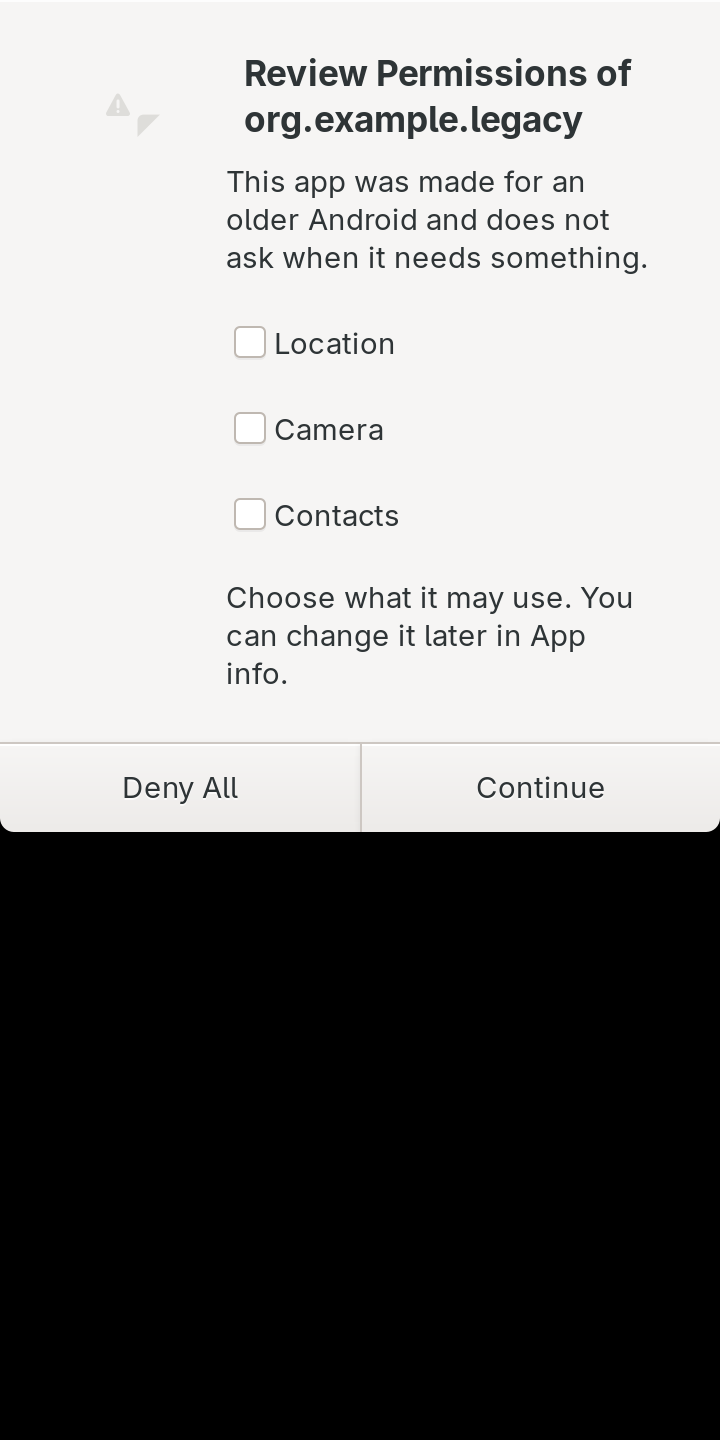
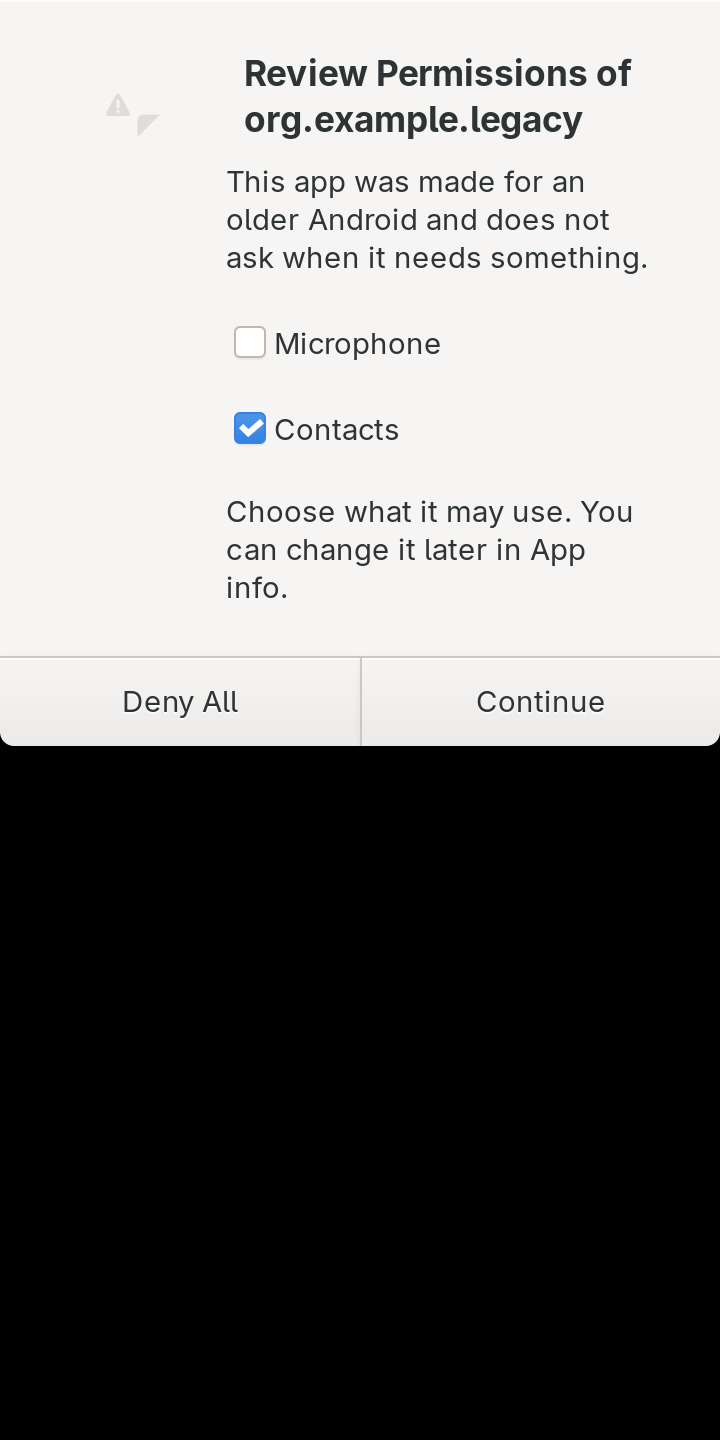
legacy review: only for legacy apps, keep earlier answers, portal permissions out
Review fixes: the service checks the app's target SDK (make-app-flatpak
-T) or --sdk-int itself, so other apps cannot use it to re-ask; earlier
answers are kept (yes ticked, a final no left out); location and camera
are left to their portals; concurrent calls share one dialog.

diff --git a/src/installer-service/permissions.c b/src/installer-service/permissions.c
@@ -248,6 +248,7 @@ static void request_free(struct request *r)
 	g_free(r->app_id);
 	g_free(r->permission);
 	g_clear_pointer(&r->dialog_args, g_variant_unref);
+	g_free(r->key);
 	g_free(r);
 	release();
 }
@@ -421,9 +422,10 @@ int main(int argc, char **argv)
 /* -------- legacy permission review (owner, 2026-11-03) --------
  * Apps made for Android before 6 (target SDK < 23, or run with SDK_INT < 23) never ask at runtime:
  * androidx answers from checkSelfPermission. As on Android 10+ and GrapheneOS, their first start
- * shows one review of their dangerous permissions, each off by default. The answers are stored
- * like the others (the portal-backed ones only as what checkSelfPermission reports; access still
- * goes through the portals), and the review is shown once (id atl.legacy-review). */
+ * shows one review of the dangerous permissions this service decides, each off by default (an
+ * earlier "yes" ticked, an earlier final "no" left out), stored like the other answers, once (id
+ * atl.legacy-review). Location and camera are not part of it: their portals ask at first use. Only
+ * for apps whose Flatpak says they are made for Android before 6. */
 
 #define REVIEW_DONE "atl.legacy-review"
 
@@ -431,9 +433,6 @@ static const struct {
 	const char *permission;
 	const char *label;
 } reviewed[] = {
-	{"android.permission.ACCESS_FINE_LOCATION", "Location"},
-	{"android.permission.ACCESS_COARSE_LOCATION", "Approximate location"},
-	{"android.permission.CAMERA", "Camera"},
 	{"android.permission.RECORD_AUDIO", "Microphone"},
 	{"android.permission.READ_CONTACTS", "Contacts"},
 	{"android.permission.WRITE_CONTACTS", "Change contacts"},
@@ -446,13 +445,37 @@ static const struct {
 	{"android.permission.BODY_SENSORS", "Body sensors"},
 };
 
+/* target SDK (make-app-flatpak's target-sdk) or the --sdk-int the app runs with below 23 */
+static gboolean app_is_legacy(const char *app_id)
+{
+	char *flatpak = flatpak_user_dir();
+	char *files = g_build_filename(flatpak, "app", app_id, "current", "active", "files", NULL);
+	char *target_path = g_build_filename(files, "share", "atl", "target-sdk", NULL);
+	char *launcher_path = g_build_filename(files, "bin", "atl-app", NULL);
+	char *contents = NULL;
+	gboolean legacy = FALSE;
+	if (g_file_get_contents(target_path, &contents, NULL, NULL) && *g_strstrip(contents))
+		legacy = atoi(contents) > 0 && atoi(contents) < 23;
+	g_clear_pointer(&contents, g_free);
+	if (!legacy && g_file_get_contents(launcher_path, &contents, NULL, NULL)) {
+		char *sdk = strstr(contents, "--sdk-int ");
+		legacy = sdk && atoi(sdk + strlen("--sdk-int ")) > 0 && atoi(sdk + strlen("--sdk-int ")) < 23;
+	}
+	g_free(contents);
+	g_free(launcher_path);
+	g_free(target_path);
+	g_free(files);
+	g_free(flatpak);
+	return legacy;
+}
+
 struct review {
-	GDBusMethodInvocation *invocation;
 	GDBusConnection *bus;
 	char *app_id;
 	GPtrArray *permissions; // the reviewed ones this app requests
 	GVariant *dialog_args;
 	int backend; // index into access_backends
+	char *key; // in pending: the invocations waiting for this review
 };
 
 static void review_answered(GObject *source, GAsyncResult *res, gpointer user_data);
@@ -475,7 +498,12 @@ static void review_reply(struct review *r, GHashTable *granted)
 		                     : stored_answer(r->bus, r->app_id, permission, &denials);
 		g_variant_builder_add(&answers, "{ss}", permission, answer == 1 ? "yes" : "no");
 	}
-	g_dbus_method_invocation_return_value(r->invocation, g_variant_new("(a{ss})", &answers));
+	GVariant *value = g_variant_ref_sink(g_variant_new("(a{ss})", &answers));
+	GPtrArray *waiting = g_hash_table_lookup(pending, r->key);
+	for (guint i = 0; waiting && i < waiting->len; i++)
+		g_dbus_method_invocation_return_value(g_ptr_array_index(waiting, i), g_variant_ref(value));
+	g_hash_table_remove(pending, r->key);
+	g_variant_unref(value);
 }
 
 static void review_free(struct review *r)
@@ -549,8 +577,26 @@ static void handle_review(GDBusMethodInvocation *invocation, GVariant *params)
 		                                           "only apps in their own ATL Flatpak");
 		return;
 	}
+	if (!app_is_legacy(app_id)) {
+		g_dbus_method_invocation_return_dbus_error(invocation, "org.freedesktop.DBus.Error.AccessDenied",
+		                                           "only for apps made for Android before 6");
+		g_free(app_id);
+		return;
+	}
+	/* one review at a time per app: later calls wait for its answers */
+	char *key = g_strdup_printf("%s\n" REVIEW_DONE, app_id);
+	GPtrArray *waiting = g_hash_table_lookup(pending, key);
+	if (waiting) {
+		g_ptr_array_add(waiting, invocation);
+		g_free(key);
+		g_free(app_id);
+		return;
+	}
+	waiting = g_ptr_array_new();
+	g_ptr_array_add(waiting, invocation);
+	g_hash_table_insert(pending, g_strdup(key), waiting);
 	struct review *r = g_new0(struct review, 1);
-	r->invocation = invocation;
+	r->key = key;
 	r->bus = g_object_ref(g_dbus_method_invocation_get_connection(invocation));
 	r->app_id = app_id;
 	r->permissions = g_ptr_array_new();
@@ -559,10 +605,15 @@ static void handle_review(GDBusMethodInvocation *invocation, GVariant *params)
 	for (gsize i = 0; i < G_N_ELEMENTS(reviewed); i++) {
 		if (app_requests(app_id, reviewed[i].permission) != TRUE)
 			continue;
+		/* a final "no" (asked twice, or an earlier review) stays; App info can change it */
+		int earlier_denials;
+		int answer = stored_answer(r->bus, app_id, reviewed[i].permission, &earlier_denials);
+		if (answer == 0 && earlier_denials >= MAX_DENIALS)
+			continue;
 		g_ptr_array_add(r->permissions, (gpointer)reviewed[i].permission);
-		/* a check box, off by default */
+		/* a check box, off by default, ticked after an earlier "yes" */
 		g_variant_builder_add(&choices, "(ss@a(ss)s)", reviewed[i].permission, reviewed[i].label,
-		                      g_variant_new_array(G_VARIANT_TYPE("(ss)"), NULL, 0), "false");
+		                      g_variant_new_array(G_VARIANT_TYPE("(ss)"), NULL, 0), answer == 1 ? "true" : "false");
 	}
 	hold();
 	int denials;

diff --git a/src/main-executable/main.c b/src/main-executable/main.c
@@ -665,6 +665,9 @@ static void install_flatpak(struct jni_callback_data *d, JNIEnv *env, jobject ap
 		g_ptr_array_add(argv, g_strdup("-P"));
 		g_ptr_array_add(argv, g_strdup(permissions));
 	}
+	/* for the legacy permission review: apps made for Android before 6 */
+	g_ptr_array_add(argv, g_strdup("-T"));
+	g_ptr_array_add(argv, g_strdup_printf("%d", J__Application__get_target_sdk_version(env, application_object)));
 	char *version = jstring_dup(env, J__Application__get_version_name(env, application_object));
 	if (version && *version) {
 		g_ptr_array_add(argv, g_strdup("-V"));

diff --git a/src/api-impl/android/app/Application.java b/src/api-impl/android/app/Application.java
@@ -94,6 +94,11 @@ public class Application extends ContextWrapper {
 	}
 
 	@Export
+	int get_target_sdk_version() {
+		return this.get_atl_loaded_app().pkg.applicationInfo.targetSdkVersion;
+	}
+
+	@Export
 	String get_installed_version_name() {
 		return installed_version_name;
 	}

diff --git a/docs/installing-apps.md b/docs/installing-apps.md
@@ -281,12 +281,15 @@ android-translation-layer --install-flatpak [-w 360 -h 720] [--sdk-int N] [-l AC
   Apps made for Android before 6 (target SDK or `SDK_INT` below 23,
   e.g. CoMaps at SDK 21) never ask: before their code runs, ATL asks
   the service's `Review` once, which shows one dialog of the app's
-  dangerous permissions, each off by default
-  ([screenshot](screenshots/legacy-review-2026-11-04.png)); the
-  answers are stored like the others and `checkSelfPermission` reports
-  them, also for location and camera, whose access still goes through
-  the portals (owner, 2026-11-03; Android 10+ and GrapheneOS do the
-  same). Headless check: `flatpak/legacy-review-test.sh`.
+  dangerous permissions that the service decides, each off by default,
+  an earlier "yes" ticked and an earlier final "no" left out
+  ([screenshot](screenshots/legacy-review-2026-11-04.png)); the answers
+  are stored like the others (owner, 2026-11-03; Android 10+ and
+  GrapheneOS do the same). Location and camera are not part of it:
+  their portals ask at first use. The service reviews only apps whose
+  Flatpak says so (`make-app-flatpak -T` writes the target SDK; else the
+  `--sdk-int` it runs with), and concurrent calls share one dialog.
+  Headless check: `flatpak/legacy-review-test.sh`.
   Background location (owner, 2026-11-03; split with the location
   portal work, #76): the portal decides fine and coarse location, and
   its dialog covers use while the app has a window or a foreground
